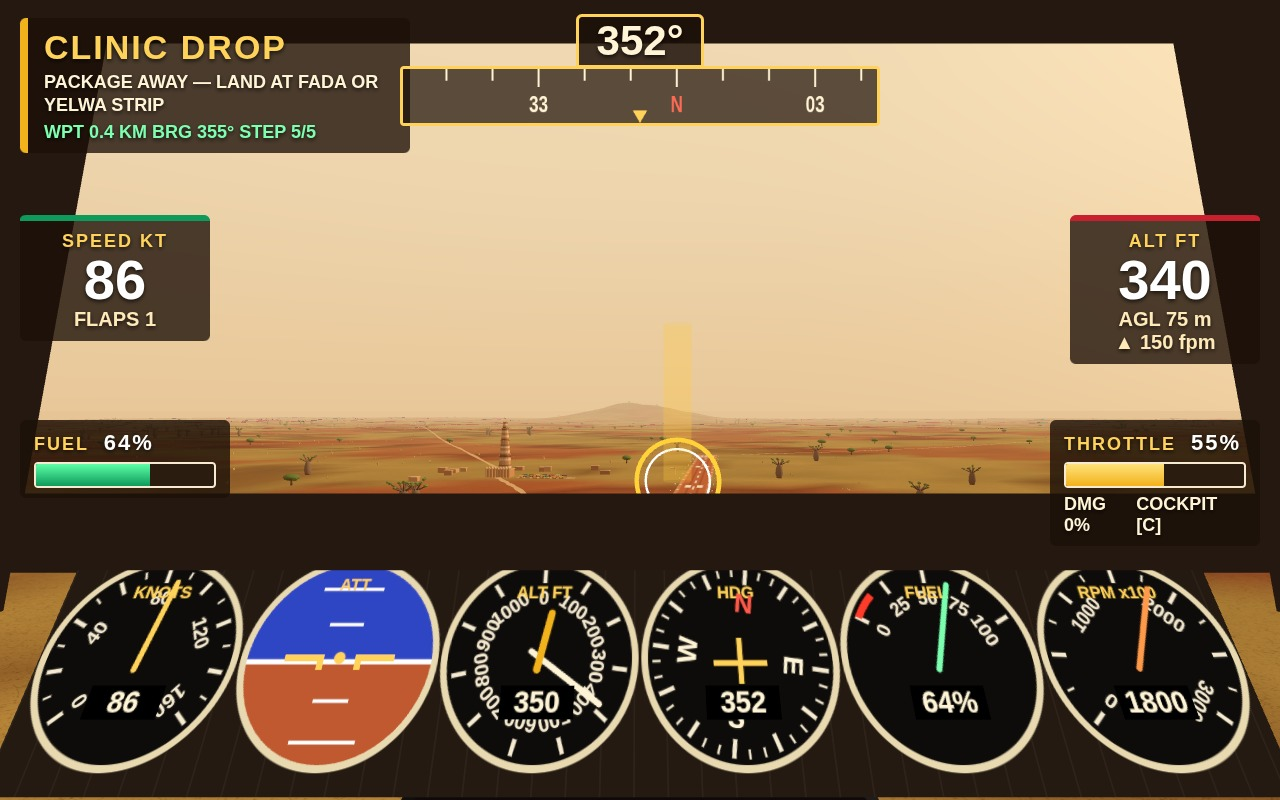
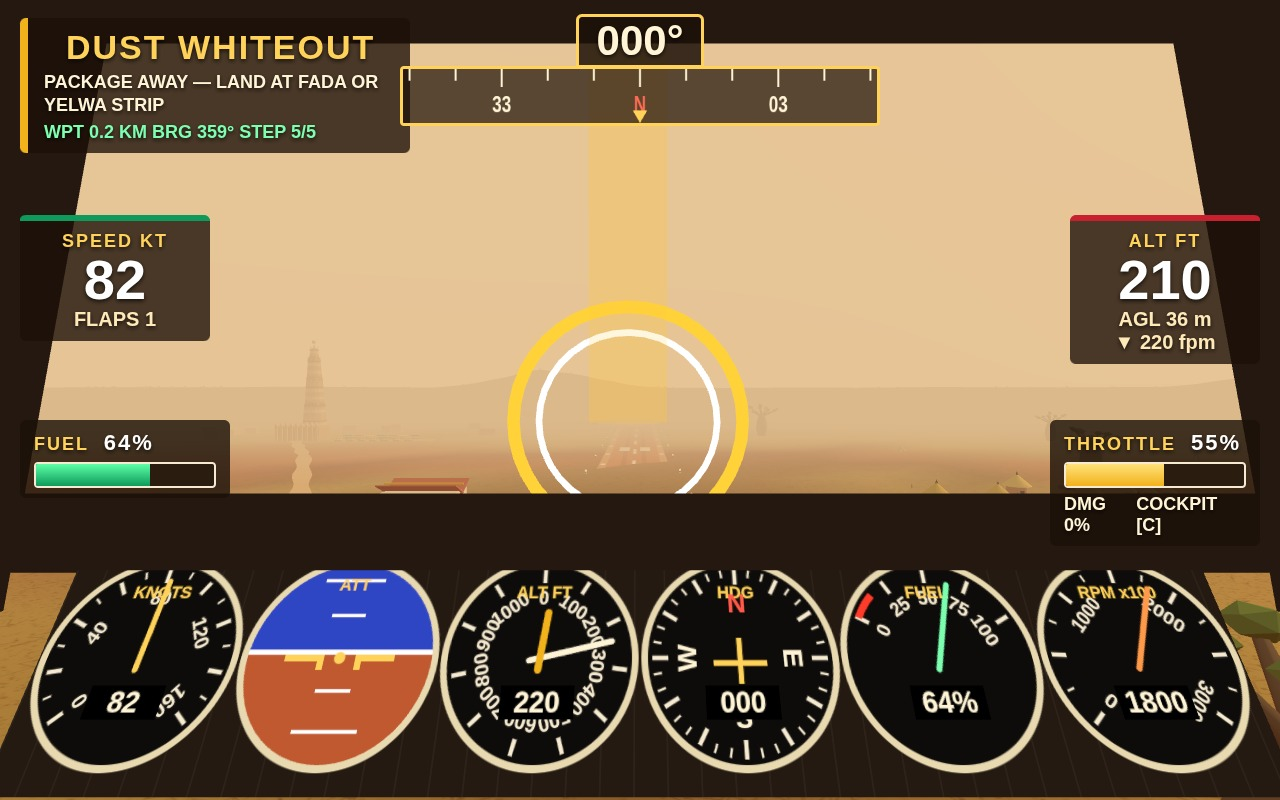
Polish Harmattan Mail screenshots: larger cover, distinct mission beats, cockpit nose clip, stronger landing dust.

diff --git a/game/src/shots/screenshotScenes.js b/game/src/shots/screenshotScenes.js
@@ -12,30 +12,46 @@ function pose(g, o) {
   ac.rpm = 700 + o.throttle * 2000;
 }
 
+function css(text) {
+  const el = document.createElement('style'); el.textContent = text; document.head.appendChild(el);
+}
+// Shot HUD layout: speed/alt move to the lower corners so the aircraft, ring and landmarks stay clear.
+const LOW_HUD = '#hud .gauge{top:auto!important;bottom:110px;width:200px;padding:6px 12px}#hud .gauge .big{font-size:60px}#hud #missionBox{width:340px;padding:6px 14px}#hud #mTitle{font-size:34px}'
+  + '#hud #fuelBox,#hud #thrBox{width:300px}#hud #hint{display:none}#hud #fuelBox .lab,#hud #thrBox .lab{font-size:24px}';
+
 const SCENES = {
   // THE COVER: chase view, clinic-drop mission on its last step, ring over the Fada threshold, minaret + baobabs + huts.
   chase(g) {
     g.startMission(1); g.runner.setStep(4);
-    pose(g, { x: -2, z: 560, heading: 0, agl: 62, speed: 46, throttle: 0.6, fuel: 78, pitch: -2, bank: 4, flaps: 1 });
-    g.rig.offset.set(3.6, 4.6, 15.5); g.rig.aimDown = 3.0; g.rig.lookAhead = 16; g.rig.fovBase = 58;
+    pose(g, { x: -48, z: 520, heading: 0, agl: 58, speed: 46, throttle: 0.6, fuel: 78, pitch: -3, bank: 5, flaps: 1 });
+    g.rig.offset.set(2.4, 3.6, 10.5); g.rig.aimDown = 3.0; g.rig.lookAhead = 18; g.rig.fovBase = 64;
+    g.sky.setDust(0.55, 0.0011);
+    css(LOW_HUD + '#hud #thrBox{display:none}#hud #altBox{bottom:20px}#hud #mObj,#hud #mWpt{font-size:15px}');
     g.state.bannerT = 0;
   },
+  // DUST WHITEOUT: thick haze, strip and lamp row dimly ahead, external nose hidden so the glass shows only world.
   cockpit(g) {
     g.startMission(1); g.runner.setStep(4);
-    pose(g, { x: 34, z: 760, heading: 352, agl: 75, speed: 44, throttle: 0.55, fuel: 64, pitch: 1, bank: 0, flaps: 1 });
-    g.setCameraMode('cockpit'); g.state.bannerT = 0;
+    pose(g, { x: 3, z: 485, heading: 0, agl: 36, speed: 42, throttle: 0.55, fuel: 64, pitch: -1.5, bank: 0, flaps: 1 });
+    g.setCameraMode('cockpit'); g.ac.model.nose.visible = false; g.state.bannerT = 0;
+    g.sky.setDust(0.95, 0.0034);
+    css('#hud #mTitle{font-size:0}#hud #mTitle:after{content:"DUST WHITEOUT";font-size:34px}');
   },
+  // FUEL DIVERT: LOW FUEL warning kept big but up top; plane, strip and ring stay clear below it.
   mission(g) {
     g.startMission(4); g.runner.leakOn = true; g.runner.t = 40;
-    pose(g, { x: 3130, z: 1800, heading: 90, agl: 75, speed: 40, throttle: 0.25, fuel: 8, pitch: -2, bank: -3 });
+    pose(g, { x: 3180, z: 1800, heading: 90, agl: 55, speed: 40, throttle: 0.25, fuel: 8, pitch: -3, bank: -3 });
     g.ac.leak = 0.03; g.runner.env.wind = [-6, 0];
-    g.rig.offset.set(3.6, 4.6, 15.5); g.rig.aimDown = 3.0; g.rig.lookAhead = 16; g.rig.fovBase = 58;
-    banner('FUEL LEAK! HEADWIND! DIVERT TO GOSSI PAN', 99);
+    g.rig.offset.set(3.0, 3.6, 11.5); g.rig.aimDown = 2.4; g.rig.lookAhead = 18; g.rig.fovBase = 62;
+    css(LOW_HUD + '#hud #warn{top:140px;font-size:64px;padding:0 30px;letter-spacing:4px}#hud #banner{font-size:24px;width:380px;max-width:380px;bottom:20px}#hud #fuelBox{width:330px}#hud #thrBox{display:none}#hud #altBox{bottom:20px}');
+    banner('FUEL LEAK! DIVERT TO GOSSI PAN', 99);
   },
+  // CATTLE-MARKET MAIL: short-field flare with heavy laterite dust at the gear, kraal and stalls to the side.
   landing(g) {
     g.startMission(2); g.runner.setStep(1);
-    pose(g, { x: 2215, z: -1500, heading: 90, agl: 2.4, speed: 32, throttle: 0.08, fuel: 41, pitch: 7, bank: 0, flaps: 2 });
-    g.rig.offset.set(4.2, 3.4, 14.5); g.rig.aimDown = 0.8; g.rig.lookAhead = 16; g.rig.fovBase = 58;
+    pose(g, { x: 2200, z: -1500, heading: 90, agl: 2.0, speed: 32, throttle: 0.08, fuel: 41, pitch: 7, bank: 0, flaps: 2 });
+    g.rig.offset.set(5.2, 3.4, 12.5); g.rig.aimDown = 0.8; g.rig.lookAhead = 16; g.rig.fovBase = 62;
+    css(LOW_HUD + '#hud #banner{font-size:22px;width:340px;max-width:340px;left:auto;right:20px;transform:none;bottom:20px}#hud #thrBox{display:none}');
     banner('SHORT FIELD — HOLD THE FLARE', 99);
   },
 };
@@ -50,7 +66,10 @@ export async function runShot(g, name, seed) {
   for (let i = 0; i < 6; i++) g.frame(1 / 30, { freeze: true });
   if (name === 'landing' && !location.search.includes('nodust')) {
     const f = g.ac.forward();
-    for (let i = 0; i < 22; i++) { const d = -1.5 + i * 0.7, sd = (i % 2 ? 1 : -1) * (2.6 + (i % 4) * 1.1); g.effects.burst(g.ac.pos.x - f.x * d, gh + 0.5, g.ac.pos.z - f.z * d + sd, 1, { size: 3 + (i % 4) * 1.0, spread: 1.0, up: 0.4, life: 3, aged: true, alpha: 0.6, color: 0xdcae78 }); }
+    for (let i = 0; i < 70; i++) {
+      const d = -7 + i * 0.17, sd = (i % 2 ? 1 : -1) * (1.0 + (i % 6) * 0.6);
+      g.effects.burst(g.ac.pos.x - f.x * d, gh + 0.3, g.ac.pos.z - f.z * d + sd, 1, { size: 1.0 + (i % 4) * 0.45, spread: 1.2, up: 1.2, life: 3, aged: true, alpha: 0.8, color: i % 3 ? 0xcf7a34 : 0xe3a25c });
+    }
   }
   for (let i = 0; i < 4; i++) g.frame(1 / 30, { freeze: true });
   document.title = 'SHOT_READY';
